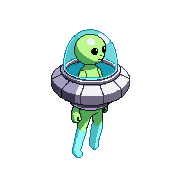
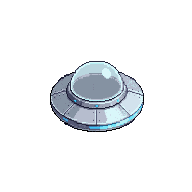
UFO dome opaca + currais procedural + HP system + bounds-aware nature
- UFO re-baixado (b7bc12d9 dome opaca, sem alien) — substitui rotations + anims em
  chars/ufo/ via _inbox + organize. Nave continua usando chars/ufo/south.png.
- Currais procedural: _construirCurral(cx, cy) monta retangulo 220x180 com
  fence_long nos lados N/E/W, gate_open no centro do lado S, post_thin nos cantos.
  10 cercas variantes loaded em preload como nat_cerca_*.
- Bounds-aware placement: tryPlace(cx0, cy0, spread, tex, label) testa overlap
  contra TODAS as peças ja colocadas (no cluster e fora) antes de spawnar.
  Raio bounding circle = 32 * scaleFor(tex) * 0.85 (overlap leve permitido).
  Up to 12 attempts por peça antes de desistir. Cluster vege spread 90, pedras 70.
- Sistema de saude colisional:
    * Vaca/boi: _hp = random 3-5, setBounce(0.5) — quica perdendo energia
    * Fazendeiro: _hp = 1, setBounce(0.2) — morre direto em rocha
    * Debounce 120ms entre hits no mesmo entity
    * Rocha: dano se isHighImpact (abducted ou speed > 4.0) — entity._hp--
    * Cow vs cow/boi: dano só se high impact, farmer NAO toma dano de cow
    * Cow vs farmer: NINGUEM toma dano (farmer so morre em rocha)
    * _hitFlash(entity, color): tint pulse 120ms ao tomar dano

Changed region(s): [[0.25, 0.1389, 0.75, 0.8889]]

diff --git a/js/04_cenario.js b/js/04_cenario.js
@@ -165,31 +165,41 @@ Object.assign(Jogo.prototype, {
             return base * Phaser.Math.FloatBetween(0.85, 1.15);
         };
 
-        for (let i = 0; i < 16; i++) {
+        // Coloca uma peça testando overlap (até 12 tentativas), retorna true se conseguiu
+        const placed = [];
+        const tryPlace = (cx0, cy0, spread, tex, label) => {
+            const sc = scaleFor(tex);
+            const myR = 32 * sc * 0.85;  // raio de bounding circle (source 64×64) — 0.85 permite leve overlap
+            for (let att = 0; att < 12; att++) {
+                const rr = Math.random() * spread, aa = Math.random() * Math.PI * 2;
+                const ox = cx0 + Math.cos(aa) * rr, oy = cy0 + Math.sin(aa) * rr;
+                if (!isLand(ox, oy)) continue;
+                // Checa contra TODAS as peças já colocadas (não só do cluster atual)
+                let collides = false;
+                for (const p of placed) {
+                    const dx = p.x - ox, dy = p.y - oy;
+                    if ((dx*dx + dy*dy) < (p.r + myR) * (p.r + myR)) { collides = true; break; }
+                }
+                if (collides) continue;
+                placed.push({ x: ox, y: oy, r: myR });
+                const o = this.matter.add.image(ox, oy, tex, null, {isStatic:true, shape:'circle'});
+                o.setDepth(1).setScale(sc).body.label = label;
+                return true;
+            }
+            return false;
+        };
+
+        for (let i = 0; i < 18; i++) {
             for (let tries = 0; tries < 8; tries++) {
                 const cx = Phaser.Math.Between(300, W-300);
                 const cy = Phaser.Math.Between(300, H-300);
                 if (!isLand(cx, cy)) continue;
                 if (Math.random() > 0.5) {
-                    // Cluster de vegetação (cactus / bushes) — escala per-asset
-                    for (let j = 0; j < 5; j++) {
-                        const r = Math.random()*80, a = Math.random()*Math.PI*2;
-                        const ox = cx + Math.cos(a)*r, oy = cy + Math.sin(a)*r;
-                        if (!isLand(ox, oy)) continue;
-                        const tex = pickV() || 'moita';
-                        const o = this.matter.add.image(ox, oy, tex, null, {isStatic:true, shape:'circle'});
-                        o.setDepth(1).setScale(scaleFor(tex)).body.label = 'moita';
-                    }
+                    // Cluster de vegetação — 5 peças em ~90px de spread
+                    for (let j = 0; j < 5; j++) tryPlace(cx, cy, 90, pickV() || 'moita', 'moita');
                 } else {
-                    // Cluster de pedras — escala per-asset
-                    for (let j = 0; j < 3; j++) {
-                        const r = Math.random()*60, a = Math.random()*Math.PI*2;
-                        const ox = cx + Math.cos(a)*r, oy = cy + Math.sin(a)*r;
-                        if (!isLand(ox, oy)) continue;
-                        const tex = pickP() || 'rocha_organica';
-                        const o = this.matter.add.image(ox, oy, tex, null, {isStatic:true, shape:'circle'});
-                        o.setDepth(1).setScale(scaleFor(tex)).body.label = 'rocha';
-                    }
+                    // Cluster de pedras — 3 peças em ~70px de spread
+                    for (let j = 0; j < 3; j++) tryPlace(cx, cy, 70, pickP() || 'rocha_organica', 'rocha');
                 }
                 break;
             }
@@ -198,17 +208,61 @@ Object.assign(Jogo.prototype, {
         // ── 6. CURRAIS (em terra firme)
         this.currais = [];
         this.driveThrus = this.currais;
+        // Currais procedural: retângulo de ~220×180 montado com cercas PixelLab
+        // Lados N/S/E/W com fence_long; cantos com post_thin; um gate_open na borda S
+        // O "centro" do curral é o ponto que a IA usa pra entrega — fica vazio
         for (let i = 0; i < 5; i++) {
             for (let tries = 0; tries < 12; tries++) {
-                const cx = Phaser.Math.Between(400, W-400);
-                const cy = Phaser.Math.Between(400, H-400);
+                const cx = Phaser.Math.Between(500, W-500);
+                const cy = Phaser.Math.Between(500, H-500);
                 if (!isLand(cx, cy)) continue;
-                const img = this.add.image(cx, cy, 'curral').setDepth(1);
-                this.add.text(cx, cy, 'CRL', {fontSize:'14px', fill:'#1a0800', fontStyle:'bold'}).setOrigin(0.5).setDepth(2);
-                this.currais.push({ x: cx, y: cy, sprite: img, processing: [], ready: [] });
+                this._construirCurral(cx, cy);
                 break;
             }
         }
+    },
+
+    _construirCurral(cx, cy) {
+        const W2 = 110, H2 = 90;        // half-extents do retângulo (curral 220×180)
+        const FENCE_SIZE = 60;          // tamanho visual de cada peça de cerca
+        const SEG = 56;                 // espaçamento entre peças
+
+        // Marcador central (texto "CRL" pra debug visual)
+        this.add.rectangle(cx, cy, W2*1.6, H2*1.6, 0x6e9b3a, 0.0).setDepth(0.5);
+        this.add.text(cx, cy, 'CRL', {
+            fontSize:'14px', fill:'#1a0800', fontStyle:'bold'
+        }).setOrigin(0.5).setDepth(2);
+
+        // Helper: posiciona uma cerca como matter static
+        const placeFence = (x, y, key, scale = 1.0, angle = 0) => {
+            const o = this.matter.add.image(x, y, key, null,
+                { isStatic: true, shape: { type:'rectangle', width: FENCE_SIZE*0.9, height: FENCE_SIZE*0.5 } });
+            o.setDepth(1).setScale(scale).setAngle(angle);
+            o.body.label = 'cerca';
+        };
+
+        // Lado norte (top): fence_long alinhado horizontal
+        for (let x = -W2 + SEG/2; x < W2; x += SEG) {
+            placeFence(cx + x, cy - H2, 'nat_cerca_fence_long', 1.0, 0);
+        }
+        // Lado sul (bottom): com gap no centro pro gate
+        for (let x = -W2 + SEG/2; x < W2; x += SEG) {
+            const isCenter = Math.abs(x) < SEG/2;
+            const key = isCenter ? 'nat_cerca_fence_gate_open' : 'nat_cerca_fence_long';
+            placeFence(cx + x, cy + H2, key, 1.0, 0);
+        }
+        // Lados leste/oeste: rotaciona 90° pra ficar vertical
+        for (let y = -H2 + SEG/2; y < H2; y += SEG) {
+            placeFence(cx - W2, cy + y, 'nat_cerca_fence_long', 1.0, 90);
+            placeFence(cx + W2, cy + y, 'nat_cerca_fence_long', 1.0, 90);
+        }
+        // Cantos com post_thin
+        placeFence(cx - W2, cy - H2, 'nat_cerca_post_thin', 1.0, 0);
+        placeFence(cx + W2, cy - H2, 'nat_cerca_post_thin', 1.0, 0);
+        placeFence(cx - W2, cy + H2, 'nat_cerca_post_thin', 1.0, 0);
+        placeFence(cx + W2, cy + H2, 'nat_cerca_post_thin', 1.0, 0);
+
+        this.currais.push({ x: cx, y: cy, sprite: null, processing: [], ready: [] });
     }
 
 });

diff --git a/js/10_colisao.js b/js/10_colisao.js
@@ -19,32 +19,46 @@ Object.assign(Jogo.prototype, {
         const entityIsEnemy   = !!entity.isEnemy;
         const entityAbducted  = this.vacas_abduzidas.includes(entity);
         const otherAbducted   = otherEntity && this.vacas_abduzidas.includes(otherEntity);
-        const colorEnemy      = 0xff8800;
-        const colorRock       = 0xff2222;
+        const vel             = entity.body.velocity;
+        const speed           = Math.sqrt(vel.x*vel.x + vel.y*vel.y);
+        const HIGH_SPEED      = 4.0;
+        const isHighImpact    = entityAbducted || otherAbducted || speed > HIGH_SPEED;
 
+        // Debounce: ignora hits no mesmo frame ou < 120ms
+        const now = this.time?.now ?? 0;
+        if (entity._lastHitT && (now - entity._lastHitT) < 120) return;
+
+        // ROCHA: dano por hit. Vaca/boi tem hp 3-5; fazendeiro tem hp 1 (morre direto)
         if (otherLabel === 'rocha') {
-            // Só explode se foi arremessado pelo beam (alta velocidade) OU está abduzido
-            // Andar autônomo contra pedra apenas colide (Matter empurra naturalmente)
-            const vel = entity.body.velocity;
-            const speed = Math.sqrt(vel.x * vel.x + vel.y * vel.y);
-            const HIGH_SPEED = 4.0;
-            if (entityAbducted || speed > HIGH_SPEED) {
-                this._explodir(entity, entityIsEnemy ? colorEnemy : colorRock);
+            if (!isHighImpact) return;
+            entity._lastHitT = now;
+            entity._hp = (entity._hp ?? 1) - 1;
+            this._hitFlash(entity, entityIsEnemy ? 0xff8800 : 0xffaa00);
+            if (entity._hp <= 0) {
+                this._explodir(entity, entityIsEnemy ? 0xff8800 : 0xff2222);
             }
         }
+        // VACA-VACA / VACA-BOI / BOI-BOI: dano só com impacto de alta velocidade
+        else if (otherLabel === 'vaca' || otherLabel === 'boi') {
+            if (entityIsEnemy) return;       // farmer NÃO toma dano de cow contact
+            if (!isHighImpact) return;       // toque suave: só quica (matter handles)
+            entity._lastHitT = now;
+            entity._hp = (entity._hp ?? 1) - 1;
+            this._hitFlash(entity, 0xffcc44);
+            if (entity._hp <= 0) this._explodir(entity, 0xff2222);
+        }
+        // FAZENDEIRO: cow vs farmer — NINGUÉM toma dano (faz só morre em rocha)
         else if (otherLabel === 'fazendeiro') {
-            // Algo bateu num fazendeiro — só mata se um dos dois foi arremessado
-            if (entityAbducted || otherAbducted) {
-                this._explodir(entity, colorEnemy);
-                this._explodir(otherEntity, colorEnemy);
-            }
+            return;
         }
-        else if ((otherLabel === 'vaca' || otherLabel === 'boi') && entityIsEnemy) {
-            // Fazendeiro encostou numa vaca/boi arremessado — fazendeiro morre
-            if (entityAbducted || otherAbducted) {
-                this._explodir(entity, colorEnemy);
-            }
-        }
+    },
+
+    _hitFlash(entity, color = 0xffcc00) {
+        if (!entity || !entity.scene || entity._dying) return;
+        entity.setTint(color);
+        this.time.delayedCall(120, () => {
+            if (entity.scene && !entity._dying) entity.clearTint();
+        });
     },
 
     _repovoar() {

diff --git a/js/02_preload.js b/js/02_preload.js
@@ -59,11 +59,16 @@ Object.assign(Jogo.prototype, {
                                'cactus_dead_dry','cactus_branching','cactus_cluster_low',
                                'cactus_saguaro_2','cactus_dead_vine','bush_round',
                                'patch_cluster','bush_dry','agave_dark'];
+        const NATURE_CERCAS = ['fence_full_h','fence_normal','fence_long','fence_short',
+                               'fence_broken','fence_gate_open','fence_corner',
+                               'post_single','post_thin','plank_v'];
         NATURE_PEDRAS.forEach(n => this.load.image(`nat_pedra_${n}`, `assets/pixel_labs/chars/nature/pedras/${n}.png`));
         NATURE_VEGE.forEach(n   => this.load.image(`nat_vege_${n}`,  `assets/pixel_labs/chars/nature/vegetacao/${n}.png`));
-        // Expor pra outros módulos (cenário usa pra spawn random)
+        NATURE_CERCAS.forEach(n => this.load.image(`nat_cerca_${n}`, `assets/pixel_labs/chars/nature/cercas/${n}.png`));
+        // Expor pra outros módulos
         this._naturePedrasKeys = NATURE_PEDRAS.map(n => `nat_pedra_${n}`);
         this._natureVegeKeys   = NATURE_VEGE.map(n   => `nat_vege_${n}`);
+        this._natureCercasKeys = NATURE_CERCAS.map(n => `nat_cerca_${n}`);
         // ── HUD PIXELLAB (substitui o antigo) ────────────────────────
         this.load.image('hud_score_frame',       'assets/pixel_labs/hud/score.png');
         this.load.image('hud_cows_box',          'assets/pixel_labs/hud/cows.png');

diff --git a/js/07_vacas.js b/js/07_vacas.js
@@ -26,6 +26,10 @@ Object.assign(Jogo.prototype, {
         v.burgerYield = tipo === 'boi' ? (Math.random() < 0.5 ? 2 : 3) : 1;
         v.wanderAngle = Math.random() * Math.PI * 2;
         v._wandering = true;
+        // Sistema de saúde colisional: 3-5 hits antes de explodir
+        v._hpMax = Phaser.Math.Between(3, 5);
+        v._hp    = v._hpMax;
+        v.setBounce(0.5);  // bola que quica e perde energia (matter handles decay)
 
         v.walkTimer = this.time.addEvent({
             delay: Phaser.Math.Between(1200, 2800),

diff --git a/js/09_inimigos.js b/js/09_inimigos.js
@@ -114,6 +114,9 @@ Object.assign(Jogo.prototype, {
              .setCollisionCategory(8).setCollidesWith([1, 2, 8]);
             f.body.label = 'fazendeiro';
             f.isEnemy = true;
+            // HP=1: fazendeiro só morre em pedra com impacto alto
+            f._hp = 1;
+            f.setBounce(0.2);
             f.wanderAngle = Math.random() * Math.PI * 2;
             f._wandering = true;
             f._cooldown = Phaser.Math.Between(1000, 3500);
